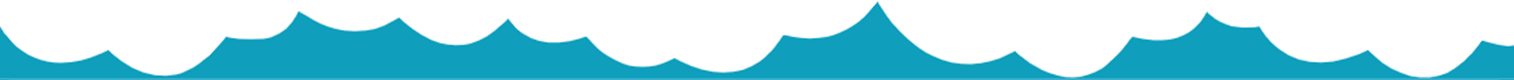
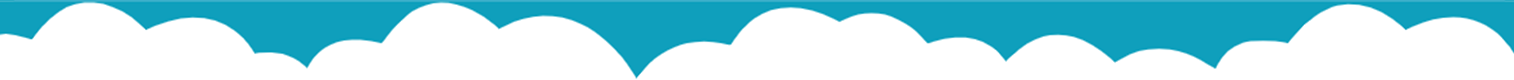
feat: added subpage obozy.html and style

diff --git a/src/pages/obozy.html b/src/pages/obozy.html
@@ -1,0 +1,114 @@
+<!DOCTYPE html>
+<html lang="pl">
+
+<head>
+    <meta charset="UTF-8" />
+    <meta name="viewport" content="width=device-width, initial-scale=1.0" />
+    <title>Akademia Sportowa UKS "Wilga"</title>
+    <link href="https://cdn.jsdelivr.net/npm/bootstrap@5.0.0/dist/css/bootstrap.min.css" rel="stylesheet"
+        integrity="sha384-wEmeIV1mKuiNpC+IOBjI7aAzPcEZeedi5yW5f2yOq55WWLwNGmvvx4Um1vskeMj0" crossorigin="anonymous">
+    <meta name="description" content="Your project description" />
+    <meta property="og:title" content="Akademia Sportowa UKS Wilga" />
+    <meta property="og:description" content="UKS, Wilga, Kraków, SP158, Ewa Winczura-Fekete, Marcin Gędłek" />
+    <meta property="og:url" content="https://AgataS23.github.io/uks-wilga-commertial-project/" />
+    <!-- <meta
+      property="og:image"
+      content="https://AgtaS23.github.io/webpack-starter/assets/img/cover.png"
+    /> -->
+
+    <!-- uncomment the line below to enable PWA  -->
+    <!-- <link rel="manifest" href="manifest.json" /> -->
+
+
+</head>
+
+<body>
+    <section class="header">
+        <div class="navigation">
+            <img src="../assets/img/logo_male.svg" alt="Logo UKS WIlga" class="navigation__logo">
+            <button class="navigation__hamburger" id="hamburger">
+                <img src="../assets/icons/bars.svg" alt="hamburger menu icon bars" class="bars">
+                <img src="../assets/icons/close.svg" alt="hamburger menu icon close" class="close hide">
+            </button>
+            <ul class="navigation__list" id="nav-ul">
+                <li class="navigation__item"><a class="navigation__item-link" href="index.html">o nas</a></li>
+                <li class="navigation__item"><a class="navigation__item-link" href="#">aktualności</a></li>
+                <li class="navigation__item"><a class="navigation__item-link" href="#">Pływanie</a></li>
+                <li class="navigation__item"><a class="navigation__item-link" href="#">Piłka nożna</a></li>
+                <li class="navigation__item"><a class="navigation__item-link" href="#">Aerobik sportowy &
+                        cheerleaders</a>
+                </li>
+                <li class="navigation__item"><a class="navigation__item-link" href="#">lekka atletyka</a></li>
+                <li class="navigation__item"><a class="navigation__item-link" href="#">tenis ziemny</a></li>
+                <li class="navigation__item"><a class="navigation__item-link" href="obozy.html">obozy</a></li>
+                <li class="navigation__item"><a class="navigation__item-link" href="#">kontakt</a></li>
+            </ul>
+        </div>
+    </section>
+    <section class="camps">
+        <img src="../assets/img/fale-nieb-odwr.svg" alt="#" class="camps__waves-top">
+        <h2 class="camps__heading">Obozy letnie i zimowe</h2>
+        <ul class="camps__list">
+            <li class="camps__item">Zimą i latem wyjeżdżamy wspólnie, by w aktywny sposób zregenerować siły po
+                cołorocznych treningach</li>
+            <li class="camps__item">Organizacją obozów zajmujemy sie od 2003 roku, wszystkie zgłaszamy do MEN i
+                Kuratorium Oświaty</li>
+            <li class="camps__item">Każdy sezon to większa grupa zainteresowanych i zadowolonych dzieciaków i rodziców
+            </li>
+            <li class="camps__item">Zawsze dbamy o zdrową kuchnię, dobre warunki pobytowe i przygotowujemy obfity i
+                urozmaicony program
+                zajęć</li>
+            <li class="camps__item">Nikt się nie nudzi, każdy, bez względu na możliwości fizyczne i zdrowotne, znajdzie
+                na naszych wakacjach
+                coś dla siebie!</li>
+        </ul>
+        <div class="composition">
+            <figure class="composition__element">
+                <img src="../assets/img/obozy1.jpg" alt="Wakacje 2019 Dźwirzyno"
+                    class="composition__photo composition__photo--p1">
+                <figcaption class="composition__caption">Wakacje 2019 Dźwirzyno</figcaption>
+            </figure>
+            <figure class="composition__element">
+                <img src="../assets/img/obozy2.jpg" alt="Nasze koszulki obozowe"
+                    class="composition__photo composition__photo--p2">
+                <figcaption class="composition__caption">Nasze koszulki obozowe</figcaption>
+            </figure>
+            <figure class="composition__element">
+                <img src="../assets/img/obozy3.jpg" alt="Adrenalina 2019"
+                    class="composition__photo composition__photo--p3">
+                <figcaption class="composition__caption">Adrenalina 2019</figcaption>
+            </figure>
+        </div>
+        <img src="../assets/img/fale-blue.svg" alt="#" class="camps__waves">
+    </section>
+    <footer class="footer">
+        <img src="../assets/img/image2vector-white.svg" alt="Logo UKS WIlga" class="footer__logo">
+        <ul class="footer__list" id="footer-nav-ul">
+            <li class="footer__item"><a class="footer__item-link" href="index.html">o nas</a></li>
+            <li class="footer__item"><a class="footer__item-link" href="#">aktualności</a></li>
+            <li class="footer__item"><a class="footer__item-link" href="#">Pływanie</a></li>
+            <li class="footer__item"><a class="footer__item-link" href="#">Piłka nożna</a></li>
+            <li class="footer__item"><a class="footer__item-link" href="#">Aerobik sportowy &
+                    cheerleaders</a>
+            </li>
+            <li class="footer__item"><a class="footer__item-link" href="#">lekka atletyka</a></li>
+            <li class="footer__item"><a class="footer__item-link" href="#">tenis ziemny</a></li>
+            <li class="footer__item"><a class="footer__item-link" href="obozy.html">obozy</a></li>
+            <li class="footer__item"><a class="footer__item-link" href="#">kontakt</a></li>
+        </ul>
+        <p class="footer__copyright">
+            Copyright © 2021. All rights reserved. Created by Agata Stoch
+        </p>
+
+    </footer>
+
+
+
+
+
+    <script src="https://cdn.jsdelivr.net/npm/bootstrap@5.0.0/dist/js/bootstrap.bundle.min.js"
+        integrity="sha384-p34f1UUtsS3wqzfto5wAAmdvj+osOnFyQFpp4Ua3gs/ZVWx6oOypYoCJhGGScy+8" crossorigin="anonymous">
+    </script>
+</body>
+
+</html>

diff --git a/src/pages/index.html b/src/pages/index.html
@@ -41,7 +41,7 @@
           </li>
           <li class="navigation__item"><a class="navigation__item-link" href="#">lekka atletyka</a></li>
           <li class="navigation__item"><a class="navigation__item-link" href="#">tenis ziemny</a></li>
-          <li class="navigation__item"><a class="navigation__item-link" href="#">obozy</a></li>
+          <li class="navigation__item"><a class="navigation__item-link" href="obozy.html">obozy</a></li>
           <li class="navigation__item"><a class="navigation__item-link" href="#">kontakt</a></li>
         </ul>
       </div>
@@ -196,7 +196,7 @@
       </li>
       <li class="footer__item"><a class="footer__item-link" href="#">lekka atletyka</a></li>
       <li class="footer__item"><a class="footer__item-link" href="#">tenis ziemny</a></li>
-      <li class="footer__item"><a class="footer__item-link" href="#">obozy</a></li>
+      <li class="footer__item"><a class="footer__item-link" href="obozy.html">obozy</a></li>
       <li class="footer__item"><a class="footer__item-link" href="#">kontakt</a></li>
     </ul>
     <p class="footer__copyright">

diff --git a/src/scss/modules/composition.scss b/src/scss/modules/composition.scss
@@ -1,0 +1,44 @@
+.composition {
+  width: 90%;
+  margin: 5rem auto;
+  display: flex;
+  flex-direction: row;
+  flex-wrap: wrap;
+  justify-content: center;
+
+  &__element {
+    position: relative;
+    width: 45%;
+  }
+
+  &__caption {
+    position: absolute;
+    bottom: 12%;
+    left: 50%;
+    transform: translate(-50%, 20%);
+    color: $color-white;
+    text-align: center;
+    font-size: 1.6rem;
+  }
+
+  &__photo {
+    width: 90%;
+    margin: 3rem;
+    box-shadow: 0 1.5rem 4rem rgba($color-black, 0.4);
+    border-radius: 0.2rem;
+    z-index: 10;
+    transition: all 0.2s;
+    outline-offset: 2rem;
+
+    &:hover {
+      outline: 1.5rem solid $color-main;
+      transform: scale(1.08) translateY(-0.5rem);
+      box-shadow: 0 2.5rem 4rem rgba($color-black, 0.5);
+      z-index: 20;
+    }
+  }
+
+  &:hover &__photo:not(:hover) {
+    transform: scale(0.95);
+  }
+}

diff --git a/src/scss/modules/camps.scss b/src/scss/modules/camps.scss
@@ -1,0 +1,44 @@
+.camps {
+  max-width: 120rem;
+  width: 100%;
+  margin: 4.661rem auto 0;
+  box-shadow: 0.4rem -1rem 2rem 0.2rem $color-dark-grey;
+  display: flex;
+  flex-direction: column;
+  align-items: center;
+
+  &__waves {
+    max-width: 120rem;
+    width: 100%;
+    margin-bottom: -0.4rem;
+    margin-top: 1rem;
+    border-bottom: 0.3rem solid $color-main;
+    border-top: 1rem solid $color-white;
+  }
+
+  &__waves-top {
+    max-width: 120rem;
+    width: 100%;
+    margin-bottom: 5rem;
+    margin-top: 0.2rem;
+    border-bottom: 0.3rem solid $color-white;
+    border-top: 1rem solid $color-main;
+  }
+
+  &__heading {
+    @include heading;
+  }
+
+  &__list {
+    list-style-type: disc;
+    margin: 2rem auto;
+  }
+
+  &__item {
+    font-size: 1.6rem;
+    line-height: 3rem;
+  }
+  &__item::marker {
+    color: $color-main;
+  }
+}

diff --git a/webpack.common.js b/webpack.common.js
@@ -67,9 +67,7 @@ module.exports = {
         {
           from: "public",
           globOptions: {
-            ignore: [
-              '**/*.DS_Store'
-            ],
+            ignore: ["**/*.DS_Store"],
           },
         },
       ],
@@ -83,10 +81,10 @@ module.exports = {
       filename: "index.html",
     }),
     new HtmlWebpackPlugin({
-      template: "./src/pages/another.html",
+      template: "./src/pages/obozy.html",
       inject: true,
-      chunks: ["index", "another"],
-      filename: "another.html",
+      chunks: ["index", "obozy"],
+      filename: "obozy.html",
     }),
   ],
 };

diff --git a/src/scss/modules/about.scss b/src/scss/modules/about.scss
@@ -15,13 +15,7 @@
   }
 
   &__heading {
-    font-family: "Amatic SC", cursive;
-    font-weight: 700;
-    font-size: 5rem;
-    text-transform: uppercase;
-    color: $color-main;
-    text-shadow: 0.1rem 0.1rem 0.2rem black;
-    margin-bottom: 4rem;
+    @include heading;
   }
 
   &__waves {

diff --git a/src/scss/_mixins.scss b/src/scss/_mixins.scss
@@ -37,3 +37,13 @@ $breakpoint arguement choices:
     } //1800
   }
 }
+
+@mixin heading {
+  font-family: "Amatic SC", cursive;
+  font-weight: 700;
+  font-size: 5rem;
+  text-transform: uppercase;
+  color: $color-main;
+  text-shadow: 0.1rem 0.1rem 0.2rem black;
+  margin: 4rem auto;
+}

diff --git a/src/scss/main.scss b/src/scss/main.scss
@@ -6,7 +6,9 @@
 @import "_variables";
 
 @import "modules/about.scss";
+@import "modules/camps.scss";
 @import "modules/carousel.scss";
+@import "modules/composition.scss";
 @import "modules/footer";
 @import "modules/navigation.scss";
 @import "modules/story.scss";

diff --git a/src/scss/modules/navigation.scss b/src/scss/modules/navigation.scss
@@ -6,7 +6,7 @@
   max-width: 120rem;
   margin: 0 auto;
   background: $color-white;
-  box-shadow: 0 0.2rem 0.2rem $color-dark-grey;
+  box-shadow: 0 0.2rem 0.2rem $color-grey;
   z-index: 9999;
   display: flex;
   flex-wrap: wrap;

diff --git a/src/scss/_variables.scss b/src/scss/_variables.scss
@@ -1,5 +1,6 @@
 //COLORS
 $color-main: #0f9fbc;
+$color-grey: #aaa9a9;
 $color-dark-grey: #5c5c5c;
 $color-derker-grey: #2b2f30;
 $color-white: #ffffff;
